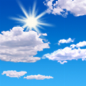
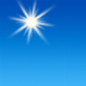
Fix Puppeteer Initialization

diff --git a/scripts/generate/services/puppeteer.ts b/scripts/generate/services/puppeteer.ts
@@ -2,24 +2,32 @@
 import Logger from "@hack4impact/logger";
 import puppeteer from "puppeteer";
 
+// Internals
+import { retry } from "./helpers";
+
 class PuppeteerService {
   browser: puppeteer.Browser;
   page: puppeteer.Page;
 
   async init() {
     Logger.log("Initializing puppeteer...");
-    this.browser = await puppeteer.launch({
-      args: [
-        "--no-sandbox",
-        "--disable-setuid-sandbox",
-        "--disable-infobars",
-        "--window-position=0,0",
-        "--ignore-certifcate-errors",
-        "--ignore-certifcate-errors-spki-list",
-        "--incognito",
-        "--proxy-server=http=194.67.37.90:3128",
-      ],
-    });
+    this.browser = await retry(
+      () =>
+        puppeteer.launch({
+          args: [
+            "--no-sandbox",
+            "--disable-setuid-sandbox",
+            "--disable-gpu",
+            "--disable-infobars",
+            "--window-position=0,0",
+            "--ignore-certifcate-errors",
+            "--ignore-certifcate-errors-spki-list",
+            "--incognito",
+            "--proxy-server=http=194.67.37.90:3128",
+          ],
+        }),
+      3
+    );
     Logger.success("Initialized puppeteer!");
   }
 

diff --git a/README.md b/README.md
@@ -54,7 +54,7 @@
 
 ## 👋 from Pleasanton, CA
 
-**Current Weather**: <!-- START WEATHER --><img src="assets/pleasanton/weather.png" alt="" height="10" /> Mostly sunny, with a high near 74. West wind 3 to 10 mph, with gusts as high as 20 mph.<!-- END WEATHER -->
+**Current Weather**: <!-- START WEATHER --><img src="assets/pleasanton/weather.png" alt="" height="10" /> Sunny, with a high near 90. North wind around 6 mph.<!-- END WEATHER -->
 
 <!-- START PICTURES -->
 
@@ -68,7 +68,7 @@
 
 ---
 
-<p align="center">This <code>README</code> file is generated <strong>every 3 hours</strong>!<br>Last refresh: <!-- START REFRESH -->Saturday, September 18, 10:32 AM PDT<!-- END REFRESH --></p>
+<p align="center">This <code>README</code> file is generated <strong>every 3 hours</strong>!<br>Last refresh: <!-- START REFRESH -->Monday, September 20, 5:29 PM PDT<!-- END REFRESH --></p>
 
 <p align="center">
   <a href="https://github.com/YashTotale/YashTotale/actions/workflows/integrate.yml" target="_blank" title="Build Workflow Badge"><img src="https://img.shields.io/github/workflow/status/YashTotale/YashTotale/Integrate?logo=github&logoColor=FFFFFF&labelColor=000000&label=Build&style=flat-square" alt="Build Workflow Badge" /></a>
